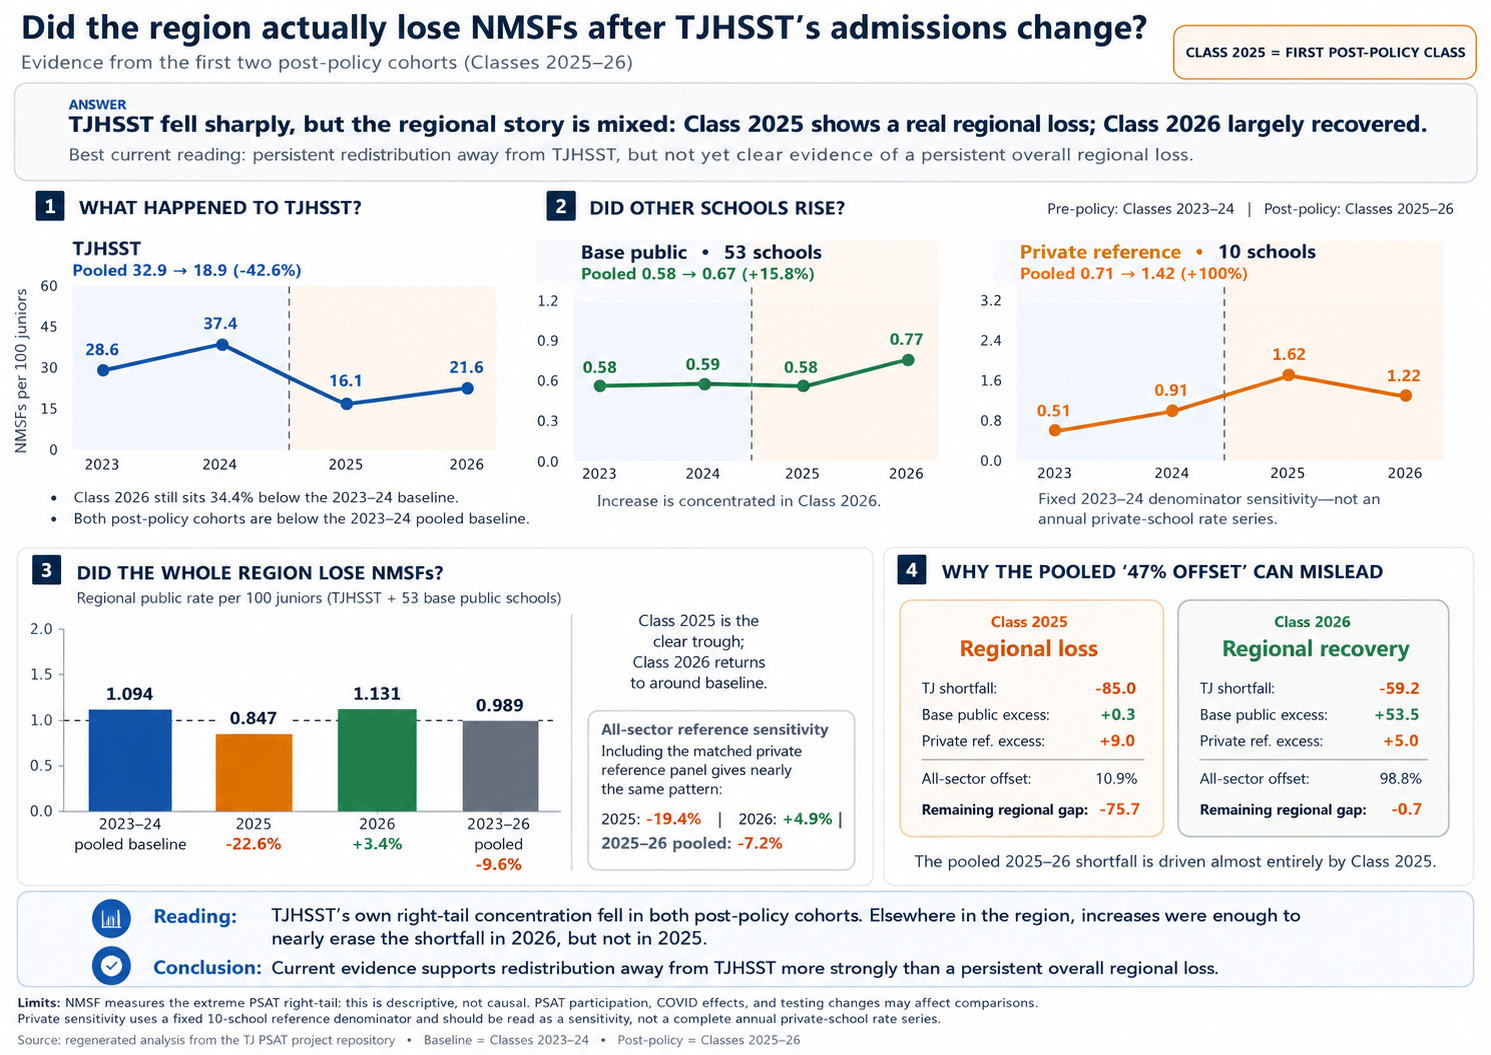
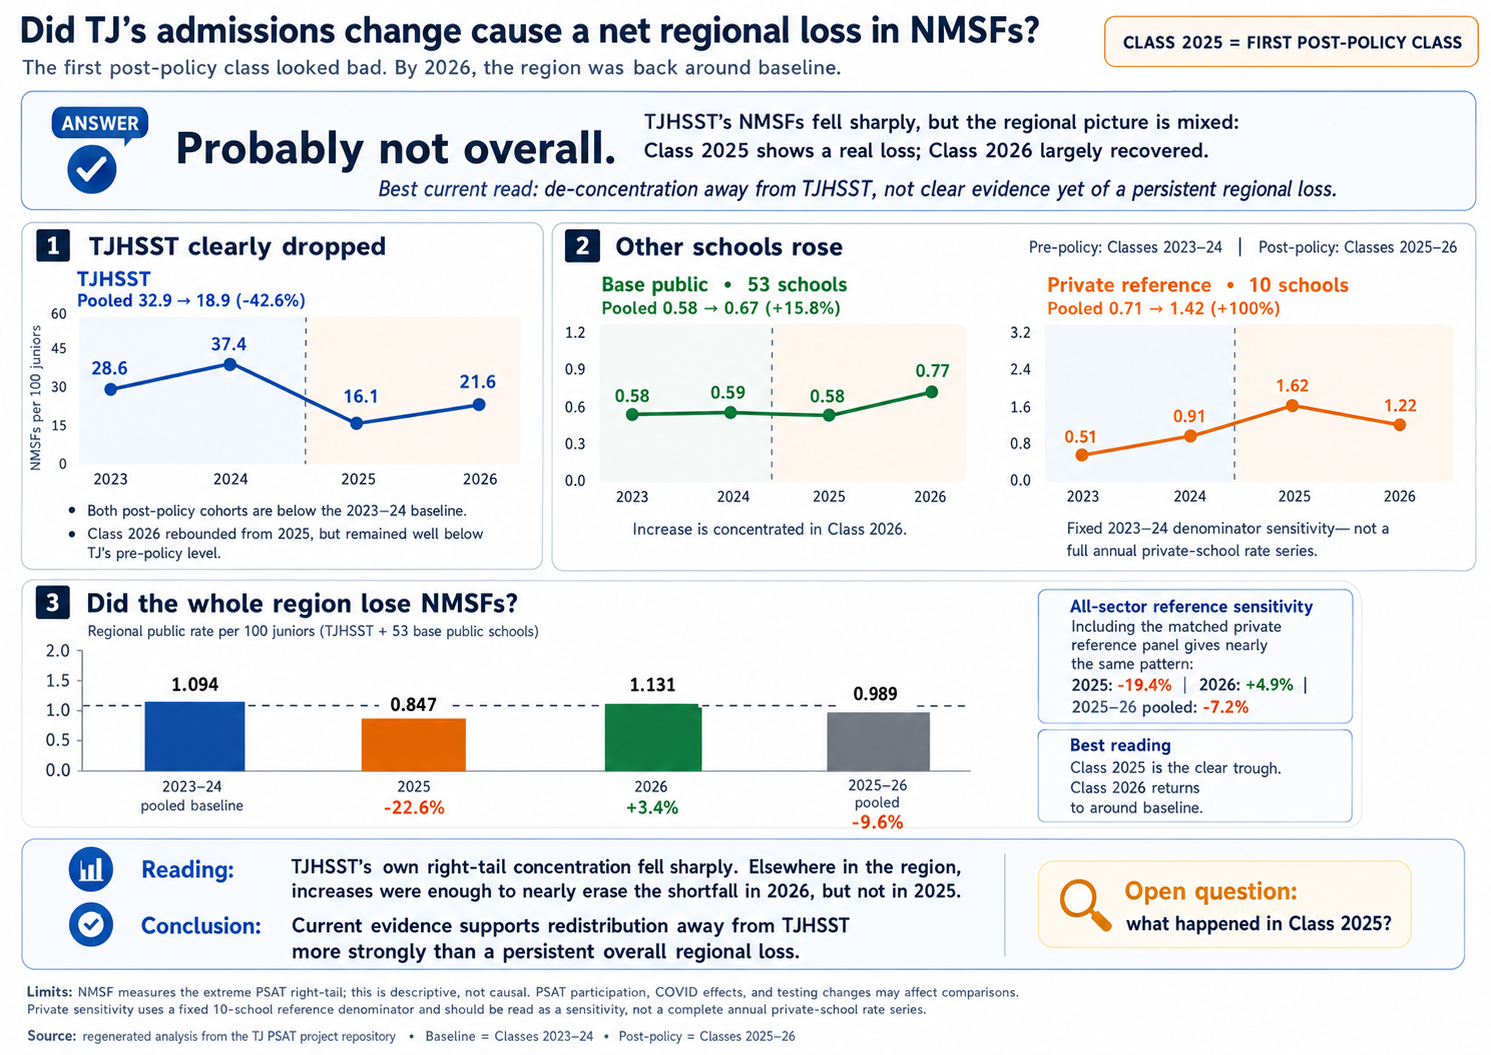
Update conclusion graphic

diff --git a/LEARNINGS.md b/LEARNINGS.md
@@ -354,6 +354,11 @@
 - Action: Keep top-level limitations focused on unmeasured participation, digital-PSAT timing, COVID recovery, missing denominators, and missing counterfactual/applicant data; do not list enrollment shifts or threshold/tie effects as separate headline caveats.
 - Confidence: high
 
+**2026-07-16 - Conclusion graphic replacement**
+- Observation: `README.md` embeds the conclusion graphic directly from `reports/conclusion_graphic.png`.
+- Action: Replace that asset in place when updating the conclusion graphic so the README reference remains valid without a documentation edit.
+- Confidence: high
+
 ## What Has Failed
 
 **2026-06-19 - CI formatting check**